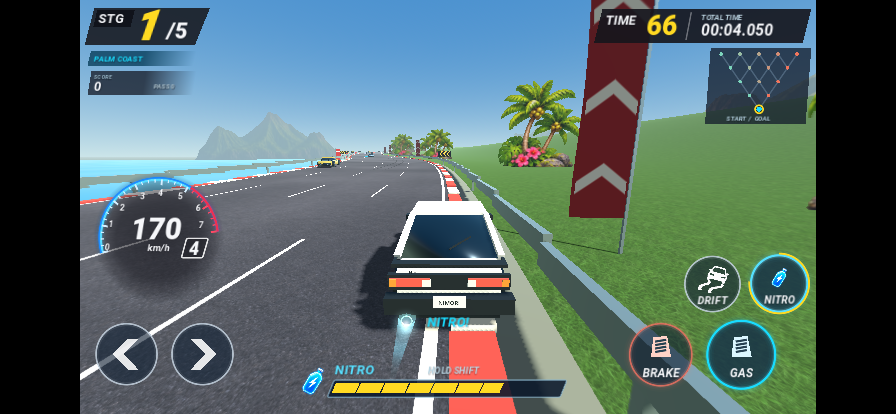
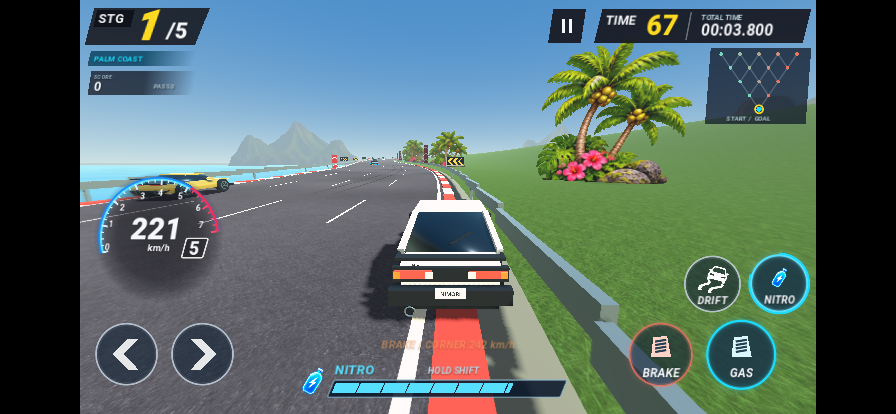
Add circuit place badges, visible touch pause and width-aware drift trails

diff --git a/new/docs/MODES.md b/new/docs/MODES.md
@@ -23,3 +23,11 @@ Records use `coast_rush_v3`, separated by mode and car. Older v2 records are pre
 ![Fuji circuit](fuji-circuit-80.png)
 
 CPU traffic now previews the braking distance to a slower car and rechecks an occupied merge path every tick. These checks use wrapped physical gaps on the circuit, so a car on another lap still blocks an unsafe merge or approach. Stationary traffic cannot move sideways. Sustained pack results are in `traffic-metrics.json`; targeted queue and merge regressions are included by `race_test.gd`.
+
+## Race feedback pass
+
+TRACK displays small projected place badges over nearby cars, limited to three and omitted when they overlap or crowd the main HUD. All eight drivers have unique places even when two grid-row distances match; ties use a stable grid order. Physical lap-wrapped proximity chooses visible badges, while total race progress determines their displayed place. TOUR keeps traffic free of race-place badges.
+
+A visible pause button sits beside the time panel; the full time panel remains tappable. Circuit pause titles and headers identify the race correctly. Touch devices receive a tap-to-resume message and touch control references. `modes_checks.gd` verifies unique grid places and pause/resume touch handling, and the exported-browser touch review captures a real mobile pause dialog.
+
+Drift trails now use the current road width instead of a fixed lane offset, keeping tire marks on wide outer lanes. `feedback_visual_review.gd` captures badges, phone layouts, the circuit pause dialog and wide-road trails. These are rendered review fixtures.

diff --git a/new/docs/CODE_REVIEW.md b/new/docs/CODE_REVIEW.md
@@ -39,3 +39,11 @@ Road patches share their rendered placement with swept tire detection, including
 | P3 | Lane movement did not depend on forward speed, so stopped cars could slide sideways. | Scale lane-change speed below 12 m/s. | A stationary car remains in its lane; normal-speed merges continue. |
 
 `traffic_checks.gd` runs seven queue/merge cases in the normal CI entry point, plus stopped-car checks. `traffic_pack_review.gd` checks seven NPCs continuously for 150 simulated seconds under each vehicle profile. Complete Tour and Fuji drives are also rerun to check progress and race completion; these scripted controls do not substitute for human playtesting.
+
+## HUD feedback review — 2026-11-06
+
+P3: the touch pause region did not cover the full rendered time panel, and pause was discoverable only by knowing that the timer was a button. Match its bounds to the panel and add a visible pause target. Circuit pause text now identifies TRACK rather than TOUR, with touch-specific resume guidance.
+
+P3: dynamic tire trails used a fixed 7.2 m lane cutoff despite variable road widths. Use the active road's half-width and a tire clearance; native wide-road and overhead captures confirm the paired trails are present on the outer lane.
+
+Projected circuit place badges use a deterministic tie order so matched grid rows do not receive duplicate places. Badges are limited and screened for overlap. Existing mode checks now cover unique grid places and the new touch pause control.
